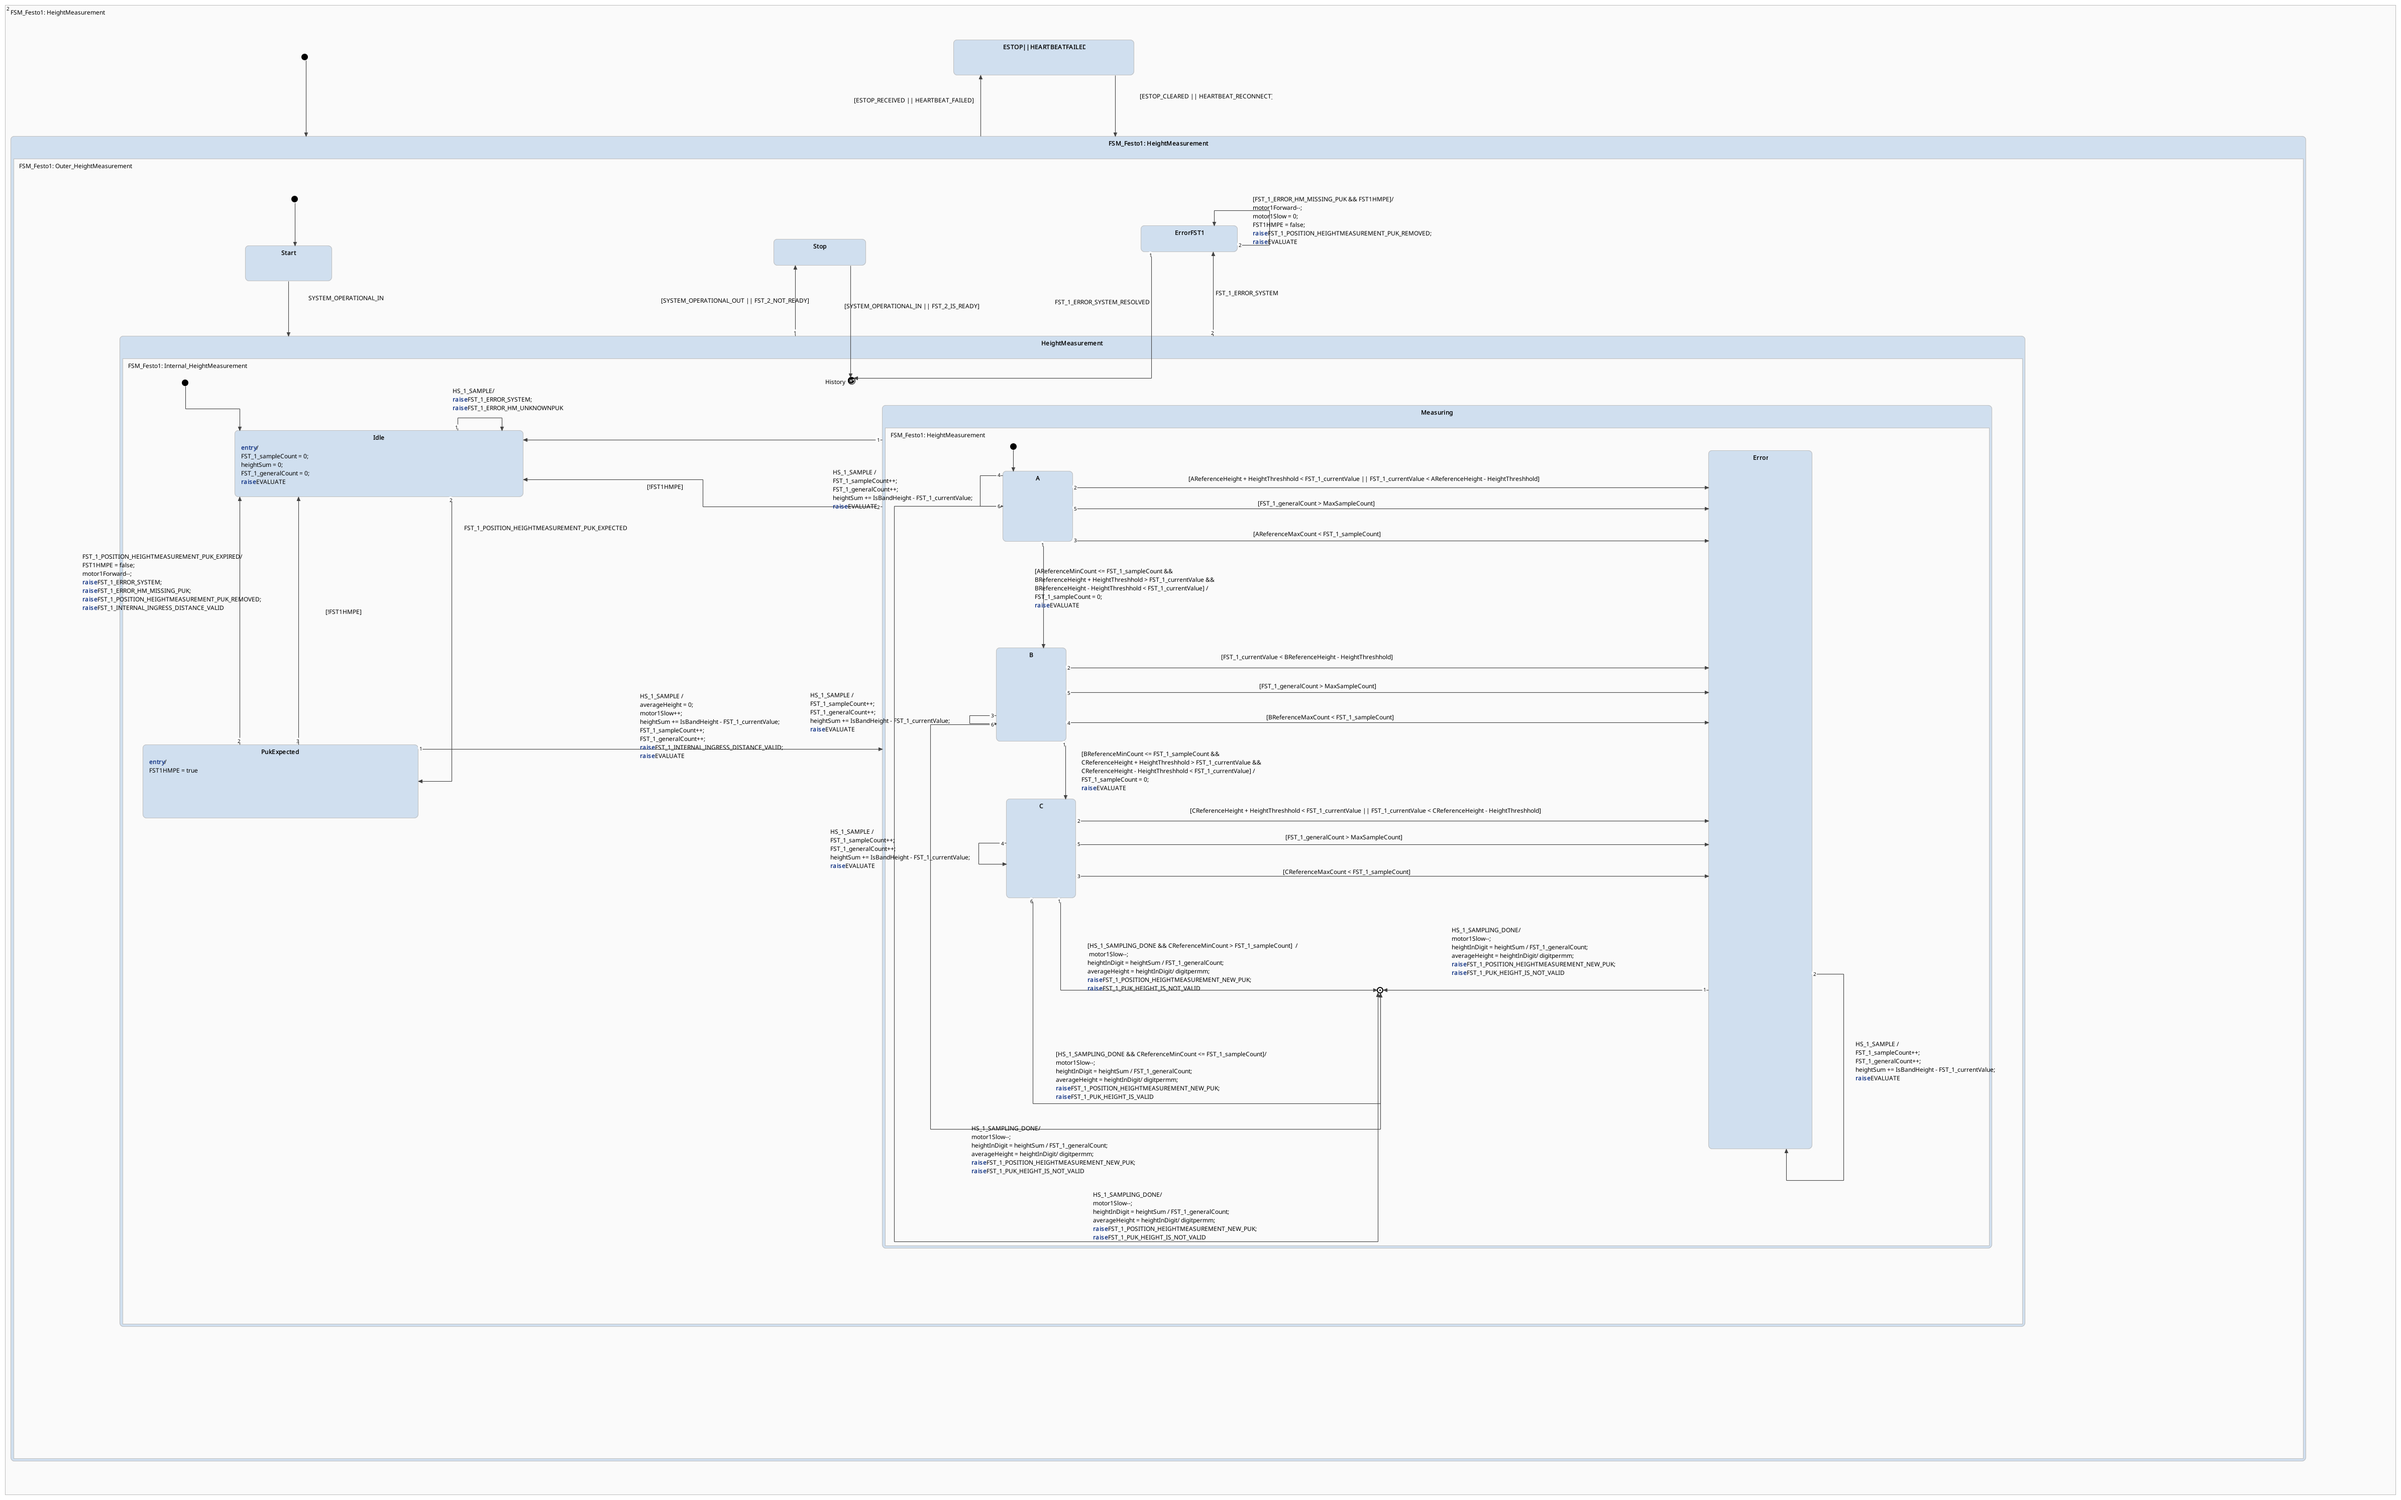
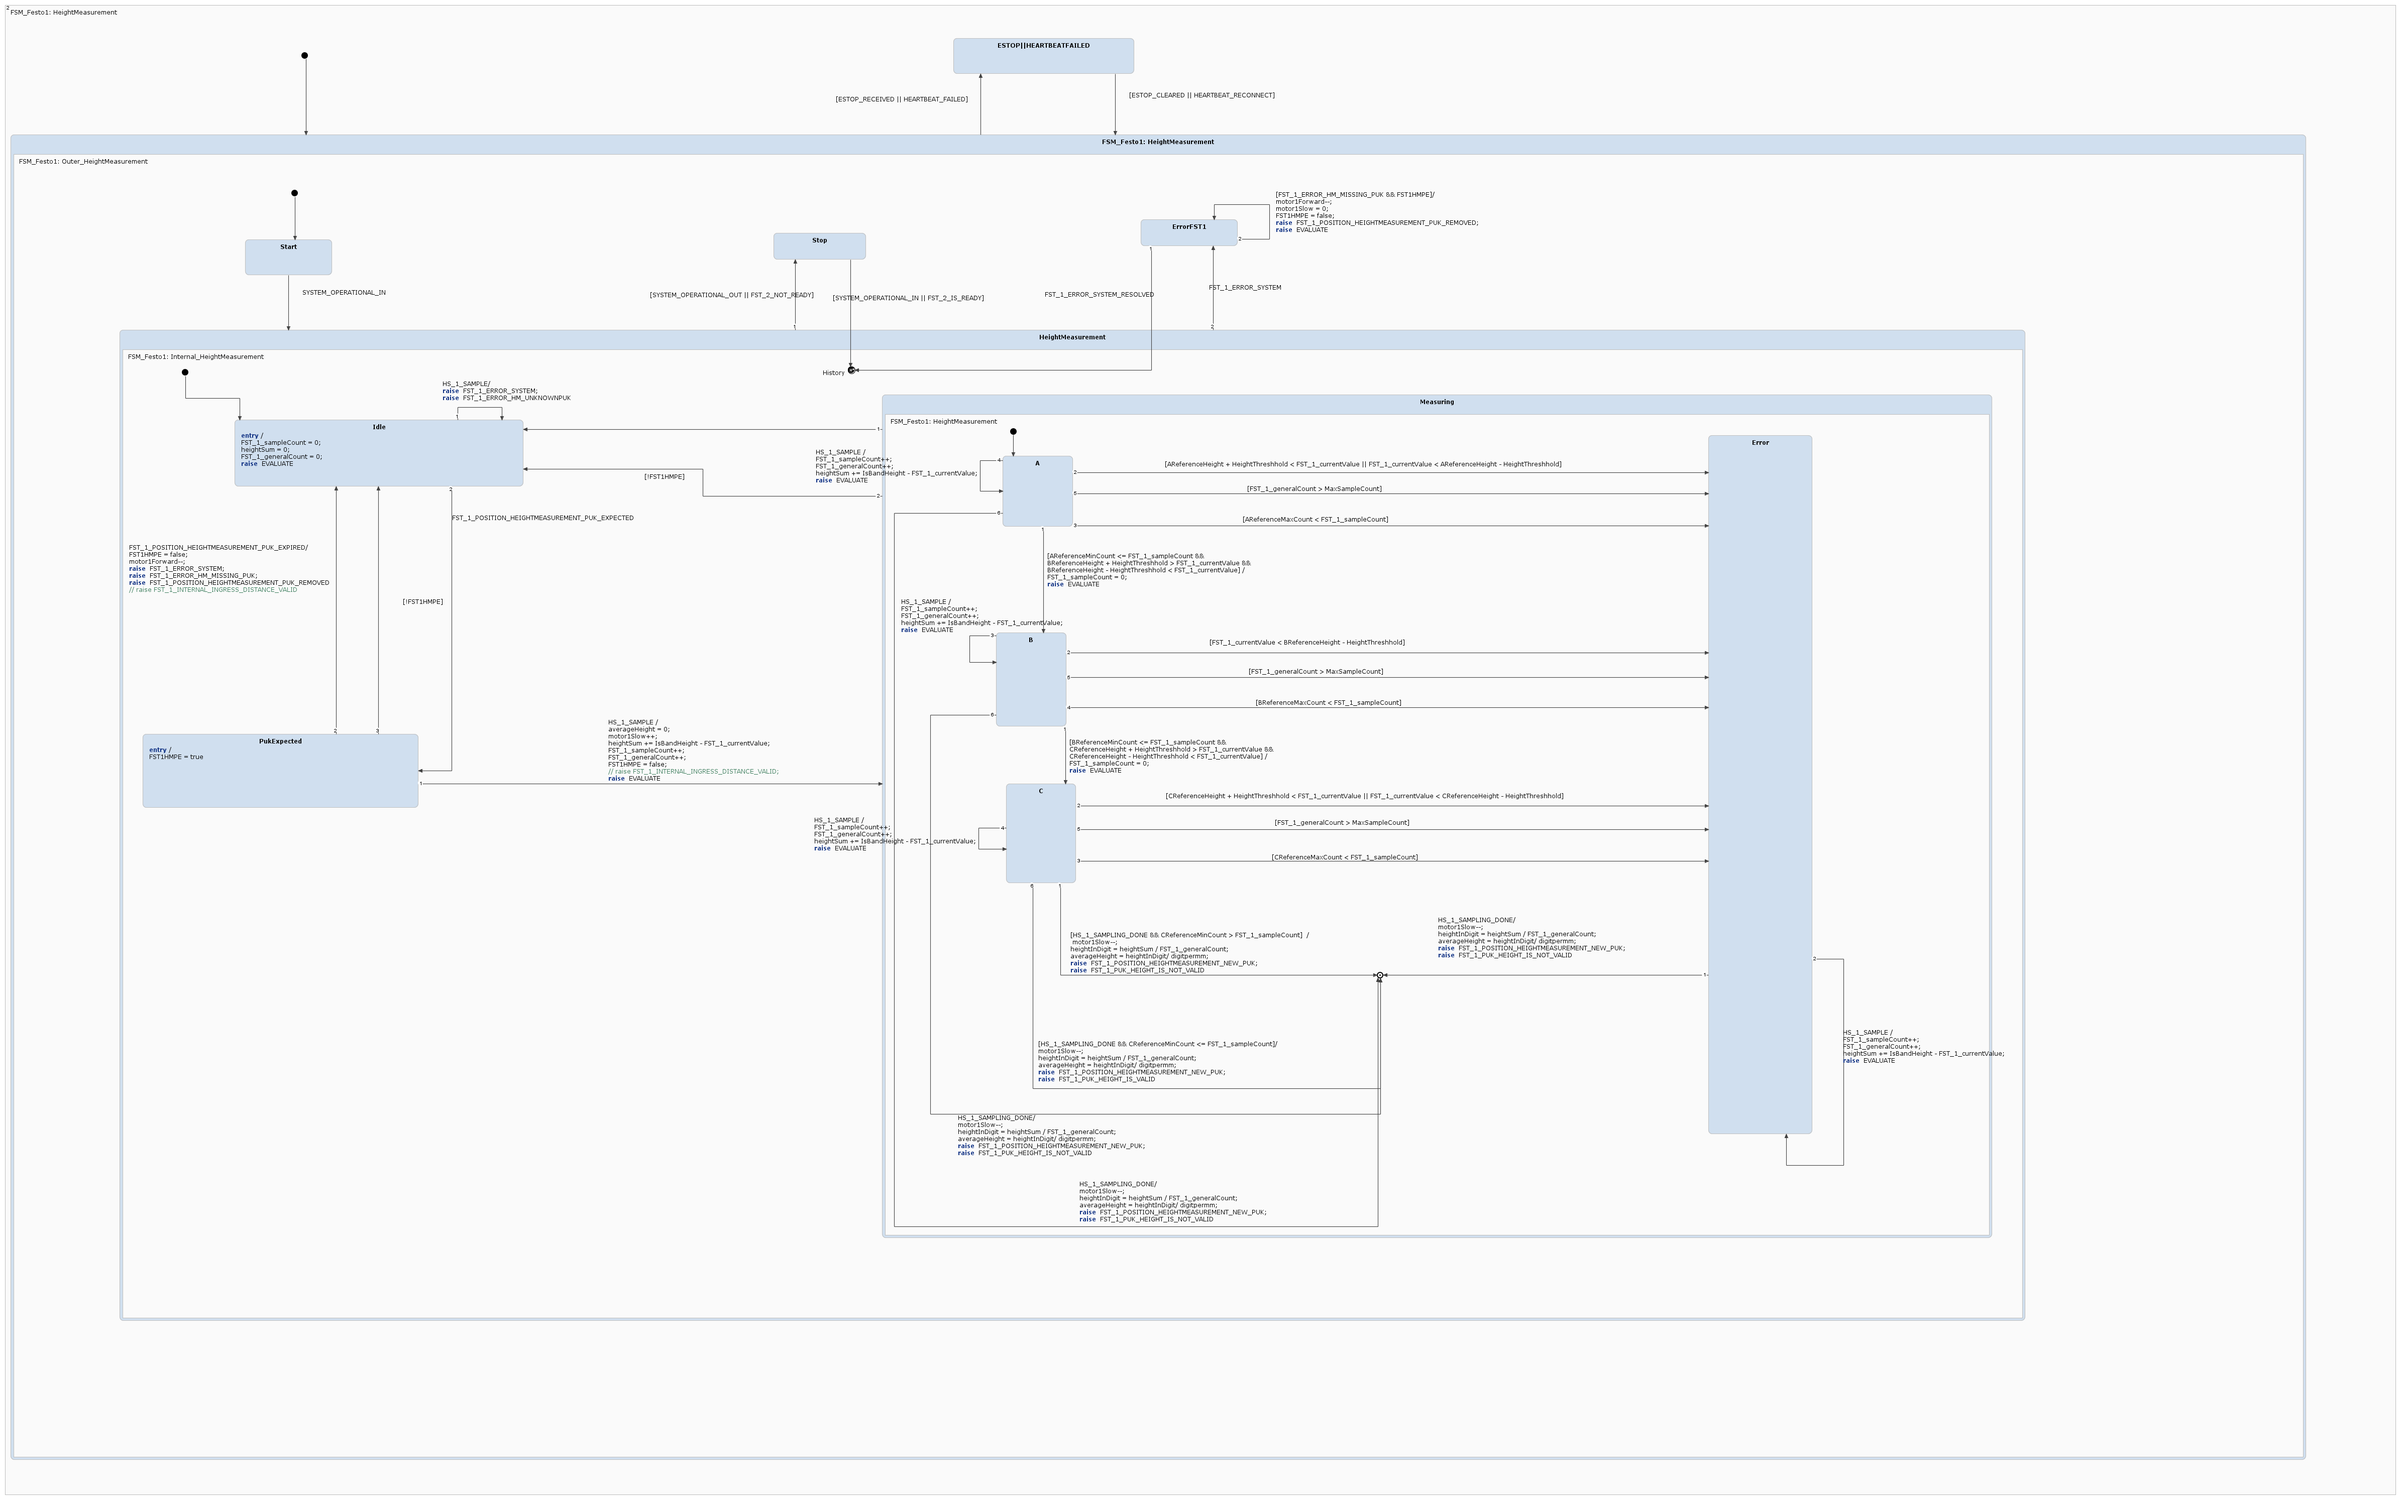
Fix transitions in Ingress/HM1 sectors

diff --git a/src/FSM/gen/src-gen/FSM.cpp b/src/FSM/gen/src-gen/FSM.cpp
@@ -474,16 +474,6 @@ bool FSM::dispatchEvent(FSM::EventInstance* event) noexcept
 			local_FST_1_ERROR_SYSTEM_raised = true;
 			break;
 		}
-		case FSM::Event::Internal_local_FST_1_INTERNAL_INGRESS_DISTANCE_VALID:
-		{
-			local_FST_1_INTERNAL_INGRESS_DISTANCE_VALID_raised = true;
-			break;
-		}
-		case FSM::Event::Internal_local_FST_1_ERROR_INGRESS_MISSING_PUK:
-		{
-			local_FST_1_ERROR_INGRESS_MISSING_PUK_raised = true;
-			break;
-		}
 		case FSM::Event::Internal_local_ESTOP_CLEARED:
 		{
 			local_ESTOP_CLEARED_raised = true;
@@ -557,6 +547,11 @@ bool FSM::dispatchEvent(FSM::EventInstance* event) noexcept
 		case FSM::Event::Internal_local_FST_1_ERROR_INGRESS_UNKNOWNPUK:
 		{
 			local_FST_1_ERROR_INGRESS_UNKNOWNPUK_raised = true;
+			break;
+		}
+		case FSM::Event::Internal_local_FST_1_ERROR_INGRESS_MISSING_PUK:
+		{
+			local_FST_1_ERROR_INGRESS_MISSING_PUK_raised = true;
 			break;
 		}
 		case FSM::Event::Internal_local_FST_1_ERROR_EGRESS_UNKNOWNPUK:
@@ -674,11 +669,6 @@ bool FSM::dispatchEvent(FSM::EventInstance* event) noexcept
 	//pointer got out of scope
 	delete event;
 	return true;
-}
-
-
-sc::rx::Observable<void>& FSM::getFST_1_INTERNAL_INGRESS_DISTANCE_VALID() noexcept {
-	return this->FST_1_INTERNAL_INGRESS_DISTANCE_VALID_observable;
 }
 
 
@@ -2097,18 +2087,6 @@ void FSM::raiseLocal_FST_1_ERROR_SYSTEM() {
 }
 
 
-void FSM::raiseLocal_FST_1_INTERNAL_INGRESS_DISTANCE_VALID() {
-	internalEventQueue.push_back(new FSM::EventInstance(FSM::Event::Internal_local_FST_1_INTERNAL_INGRESS_DISTANCE_VALID))
-	;
-}
-
-
-void FSM::raiseLocal_FST_1_ERROR_INGRESS_MISSING_PUK() {
-	internalEventQueue.push_back(new FSM::EventInstance(FSM::Event::Internal_local_FST_1_ERROR_INGRESS_MISSING_PUK))
-	;
-}
-
-
 void FSM::raiseLocal_ESTOP_CLEARED() {
 	internalEventQueue.push_back(new FSM::EventInstance(FSM::Event::Internal_local_ESTOP_CLEARED))
 	;
@@ -2195,6 +2173,12 @@ void FSM::raiseLocal_FST_1_ERROR_RAMPFULL_UNKNOWNPUK() {
 
 void FSM::raiseLocal_FST_1_ERROR_INGRESS_UNKNOWNPUK() {
 	internalEventQueue.push_back(new FSM::EventInstance(FSM::Event::Internal_local_FST_1_ERROR_INGRESS_UNKNOWNPUK))
+	;
+}
+
+
+void FSM::raiseLocal_FST_1_ERROR_INGRESS_MISSING_PUK() {
+	internalEventQueue.push_back(new FSM::EventInstance(FSM::Event::Internal_local_FST_1_ERROR_INGRESS_MISSING_PUK))
 	;
 }
 
@@ -14247,7 +14231,7 @@ sc::integer FSM::FSM_Festo1_Ingress_FSM_Festo1__Ingress_FSM_Festo1__Outer_Ingres
 	{ 
 		if ((transitioned_after) < (0))
 		{ 
-			if ((FST_1_POSITION_INGRESS_DISTANCE_VALID_raised) && (FST_1_isEjector))
+			if (FST_1_POSITION_INGRESS_DISTANCE_VALID_raised)
 			{ 
 				exseq_FSM_Festo1_Ingress_FSM_Festo1__Ingress_FSM_Festo1__Outer_Ingress_Ingress_FSM_Festo1__Internal_Ingress_CreatingDistance();
 				setFst_1_is_distancing(false);
@@ -14270,37 +14254,13 @@ sc::integer FSM::FSM_Festo1_Ingress_FSM_Festo1__Ingress_FSM_Festo1__Outer_Ingres
 					transitioned_after = 0;
 				}  else
 				{
-					if ((local_FST_1_INTERNAL_INGRESS_DISTANCE_VALID_raised) && (!(FST_1_isEjector)))
+					if (!(FST1IPE))
 					{ 
 						exseq_FSM_Festo1_Ingress_FSM_Festo1__Ingress_FSM_Festo1__Outer_Ingress_Ingress_FSM_Festo1__Internal_Ingress_CreatingDistance();
-						setFst_1_is_distancing(false);
-						EVALUATE_observable.next();
-						raiseLocal_EVALUATE();
 						enseq_FSM_Festo1_Ingress_FSM_Festo1__Ingress_FSM_Festo1__Outer_Ingress_Ingress_FSM_Festo1__Internal_Ingress_Idle_default();
 						FSM_Festo1_Ingress_FSM_Festo1__Ingress_FSM_Festo1__Outer_Ingress_Ingress_react(0);
 						transitioned_after = 0;
-					}  else
-					{
-						if (FST_1_POSITION_HEIGHTMEASUREMENT_PUK_EXPIRED_raised)
-						{ 
-							exseq_FSM_Festo1_Ingress_FSM_Festo1__Ingress_FSM_Festo1__Outer_Ingress_Ingress_FSM_Festo1__Internal_Ingress_CreatingDistance();
-							setFst_1_is_distancing(false);
-							EVALUATE_observable.next();
-							raiseLocal_EVALUATE();
-							enseq_FSM_Festo1_Ingress_FSM_Festo1__Ingress_FSM_Festo1__Outer_Ingress_Ingress_FSM_Festo1__Internal_Ingress_Idle_default();
-							FSM_Festo1_Ingress_FSM_Festo1__Ingress_FSM_Festo1__Outer_Ingress_Ingress_react(0);
-							transitioned_after = 0;
-						}  else
-						{
-							if (!(FST1IPE))
-							{ 
-								exseq_FSM_Festo1_Ingress_FSM_Festo1__Ingress_FSM_Festo1__Outer_Ingress_Ingress_FSM_Festo1__Internal_Ingress_CreatingDistance();
-								enseq_FSM_Festo1_Ingress_FSM_Festo1__Ingress_FSM_Festo1__Outer_Ingress_Ingress_FSM_Festo1__Internal_Ingress_Idle_default();
-								FSM_Festo1_Ingress_FSM_Festo1__Ingress_FSM_Festo1__Outer_Ingress_Ingress_react(0);
-								transitioned_after = 0;
-							} 
-						}
-					}
+					} 
 				}
 			}
 		} 
@@ -14327,21 +14287,7 @@ sc::integer FSM::FSM_Festo1_Ingress_FSM_Festo1__Ingress_FSM_Festo1__Outer_Ingres
 				react_FSM_Festo1_Ingress_FSM_Festo1__Ingress_FSM_Festo1__Outer_Ingress_Ingress_FSM_Festo1__Internal_Ingress_History();
 				FSM_Festo1_Ingress_FSM_Festo1__Ingress_react(0);
 				transitioned_after = 0;
-			}  else
-			{
-				if ((local_FST_1_ERROR_INGRESS_MISSING_PUK_raised) && (FST1IPE))
-				{ 
-					exseq_FSM_Festo1_Ingress_FSM_Festo1__Ingress_FSM_Festo1__Outer_Ingress_ErrorFST1();
-					setFST1IPE(false);
-					motor1Forward--;
-					FST_1_POSITION_SORTING_PUK_REMOVED_observable.next();
-					EVALUATE_observable.next();
-					raiseLocal_EVALUATE();
-					enseq_FSM_Festo1_Ingress_FSM_Festo1__Ingress_FSM_Festo1__Outer_Ingress_ErrorFST1_default();
-					FSM_Festo1_Ingress_FSM_Festo1__Ingress_react(0);
-					transitioned_after = 0;
-				} 
-			}
+			} 
 		} 
 		/* If no transition was taken */
 		if ((transitioned_after) == (transitioned_before))
@@ -14858,8 +14804,7 @@ sc::integer FSM::FSM_Festo1__HeightMeasurement_FSM_Festo1__HeightMeasurement_FSM
 				setHeightSum(heightSum + ((IsBandHeight - FST_1_currentValue)));
 				FST_1_sampleCount++;
 				FST_1_generalCount++;
-				FST_1_INTERNAL_INGRESS_DISTANCE_VALID_observable.next();
-				raiseLocal_FST_1_INTERNAL_INGRESS_DISTANCE_VALID();
+				setFST1HMPE(false);
 				EVALUATE_observable.next();
 				raiseLocal_EVALUATE();
 				enseq_FSM_Festo1__HeightMeasurement_FSM_Festo1__HeightMeasurement_FSM_Festo1__Outer_HeightMeasurement_HeightMeasurement_FSM_Festo1__Internal_HeightMeasurement_Measuring_default();
@@ -14877,8 +14822,6 @@ sc::integer FSM::FSM_Festo1__HeightMeasurement_FSM_Festo1__HeightMeasurement_FSM
 					FST_1_ERROR_HM_MISSING_PUK_observable.next();
 					raiseLocal_FST_1_ERROR_HM_MISSING_PUK();
 					FST_1_POSITION_HEIGHTMEASUREMENT_PUK_REMOVED_observable.next();
-					FST_1_INTERNAL_INGRESS_DISTANCE_VALID_observable.next();
-					raiseLocal_FST_1_INTERNAL_INGRESS_DISTANCE_VALID();
 					enseq_FSM_Festo1__HeightMeasurement_FSM_Festo1__HeightMeasurement_FSM_Festo1__Outer_HeightMeasurement_HeightMeasurement_FSM_Festo1__Internal_HeightMeasurement_Idle_default();
 					FSM_Festo1__HeightMeasurement_FSM_Festo1__HeightMeasurement_FSM_Festo1__Outer_HeightMeasurement_HeightMeasurement_react(1);
 					transitioned_after = 1;
@@ -23948,8 +23891,6 @@ void FSM::clearInternalEvents() noexcept {
 	local_ESTOP_RECEIVED_raised = false;
 	local_SYSTEM_OPERATIONAL_OUT_raised = false;
 	local_FST_1_ERROR_SYSTEM_raised = false;
-	local_FST_1_INTERNAL_INGRESS_DISTANCE_VALID_raised = false;
-	local_FST_1_ERROR_INGRESS_MISSING_PUK_raised = false;
 	local_ESTOP_CLEARED_raised = false;
 	local_FST_2_NOT_READY_raised = false;
 	local_FST_2_IS_READY_raised = false;
@@ -23965,6 +23906,7 @@ void FSM::clearInternalEvents() noexcept {
 	local_FST_1_ERROR_SORTING_UNKNOWNPUK_raised = false;
 	local_FST_1_ERROR_RAMPFULL_UNKNOWNPUK_raised = false;
 	local_FST_1_ERROR_INGRESS_UNKNOWNPUK_raised = false;
+	local_FST_1_ERROR_INGRESS_MISSING_PUK_raised = false;
 	local_FST_1_ERROR_EGRESS_UNKNOWNPUK_raised = false;
 	local_FST_1_ERROR_RAMPFULL_MISSING_PUK_raised = false;
 	local_FST_1_ERROR_IN_READY_raised = false;

diff --git a/src/FSM/gen/src-gen/FSM.h b/src/FSM/gen/src-gen/FSM.h
@@ -599,8 +599,6 @@ class FSM : public sc::EventDrivenInterface
 			Internal_local_ESTOP_RECEIVED,
 			Internal_local_SYSTEM_OPERATIONAL_OUT,
 			Internal_local_FST_1_ERROR_SYSTEM,
-			Internal_local_FST_1_INTERNAL_INGRESS_DISTANCE_VALID,
-			Internal_local_FST_1_ERROR_INGRESS_MISSING_PUK,
 			Internal_local_ESTOP_CLEARED,
 			Internal_local_FST_2_NOT_READY,
 			Internal_local_FST_2_IS_READY,
@@ -616,6 +614,7 @@ class FSM : public sc::EventDrivenInterface
 			Internal_local_FST_1_ERROR_SORTING_UNKNOWNPUK,
 			Internal_local_FST_1_ERROR_RAMPFULL_UNKNOWNPUK,
 			Internal_local_FST_1_ERROR_INGRESS_UNKNOWNPUK,
+			Internal_local_FST_1_ERROR_INGRESS_MISSING_PUK,
 			Internal_local_FST_1_ERROR_EGRESS_UNKNOWNPUK,
 			Internal_local_FST_1_ERROR_RAMPFULL_MISSING_PUK,
 			Internal_local_FST_1_ERROR_IN_READY,
@@ -646,8 +645,6 @@ class FSM : public sc::EventDrivenInterface
 				virtual ~EventInstance() = default;
 				const Event eventId;
 		};
-		/*! Get observable for event 'FST_1_INTERNAL_INGRESS_DISTANCE_VALID' of default interface scope. */
-		sc::rx::Observable<void>& getFST_1_INTERNAL_INGRESS_DISTANCE_VALID() noexcept;
 		/*! Raises the in event 'FST_1_RAMP_TIMEOUT' of default interface scope. */
 		void raiseFST_1_RAMP_TIMEOUT();
 		/*! Raises the in event 'FST_2_RAMP_TIMEOUT' of default interface scope. */
@@ -2692,9 +2689,6 @@ class FSM : public sc::EventDrivenInterface
 		
 		
 		
-		/*! Observable for event 'FST_1_INTERNAL_INGRESS_DISTANCE_VALID' of default interface scope. */
-		sc::rx::Observable<void> FST_1_INTERNAL_INGRESS_DISTANCE_VALID_observable = sc::rx::Observable<void>{};
-		
 		/*! Indicates event 'FST_1_RAMP_TIMEOUT' of default interface scope is active. */
 		bool FST_1_RAMP_TIMEOUT_raised {false};
 		
@@ -3409,18 +3403,6 @@ class FSM : public sc::EventDrivenInterface
 		/*! Raises the out event 'local_FST_1_ERROR_SYSTEM' of internal scope as a local event. */
 		void raiseLocal_FST_1_ERROR_SYSTEM();
 		
-		/*! Indicates event 'local_FST_1_INTERNAL_INGRESS_DISTANCE_VALID' of internal scope is active. */
-		bool local_FST_1_INTERNAL_INGRESS_DISTANCE_VALID_raised {false};
-		
-		/*! Raises the out event 'local_FST_1_INTERNAL_INGRESS_DISTANCE_VALID' of internal scope as a local event. */
-		void raiseLocal_FST_1_INTERNAL_INGRESS_DISTANCE_VALID();
-		
-		/*! Indicates event 'local_FST_1_ERROR_INGRESS_MISSING_PUK' of internal scope is active. */
-		bool local_FST_1_ERROR_INGRESS_MISSING_PUK_raised {false};
-		
-		/*! Raises the out event 'local_FST_1_ERROR_INGRESS_MISSING_PUK' of internal scope as a local event. */
-		void raiseLocal_FST_1_ERROR_INGRESS_MISSING_PUK();
-		
 		/*! Indicates event 'local_ESTOP_CLEARED' of internal scope is active. */
 		bool local_ESTOP_CLEARED_raised {false};
 		
@@ -3510,6 +3492,12 @@ class FSM : public sc::EventDrivenInterface
 		
 		/*! Raises the out event 'local_FST_1_ERROR_INGRESS_UNKNOWNPUK' of internal scope as a local event. */
 		void raiseLocal_FST_1_ERROR_INGRESS_UNKNOWNPUK();
+		
+		/*! Indicates event 'local_FST_1_ERROR_INGRESS_MISSING_PUK' of internal scope is active. */
+		bool local_FST_1_ERROR_INGRESS_MISSING_PUK_raised {false};
+		
+		/*! Raises the out event 'local_FST_1_ERROR_INGRESS_MISSING_PUK' of internal scope as a local event. */
+		void raiseLocal_FST_1_ERROR_INGRESS_MISSING_PUK();
 		
 		/*! Indicates event 'local_FST_1_ERROR_EGRESS_UNKNOWNPUK' of internal scope is active. */
 		bool local_FST_1_ERROR_EGRESS_UNKNOWNPUK_raised {false};
